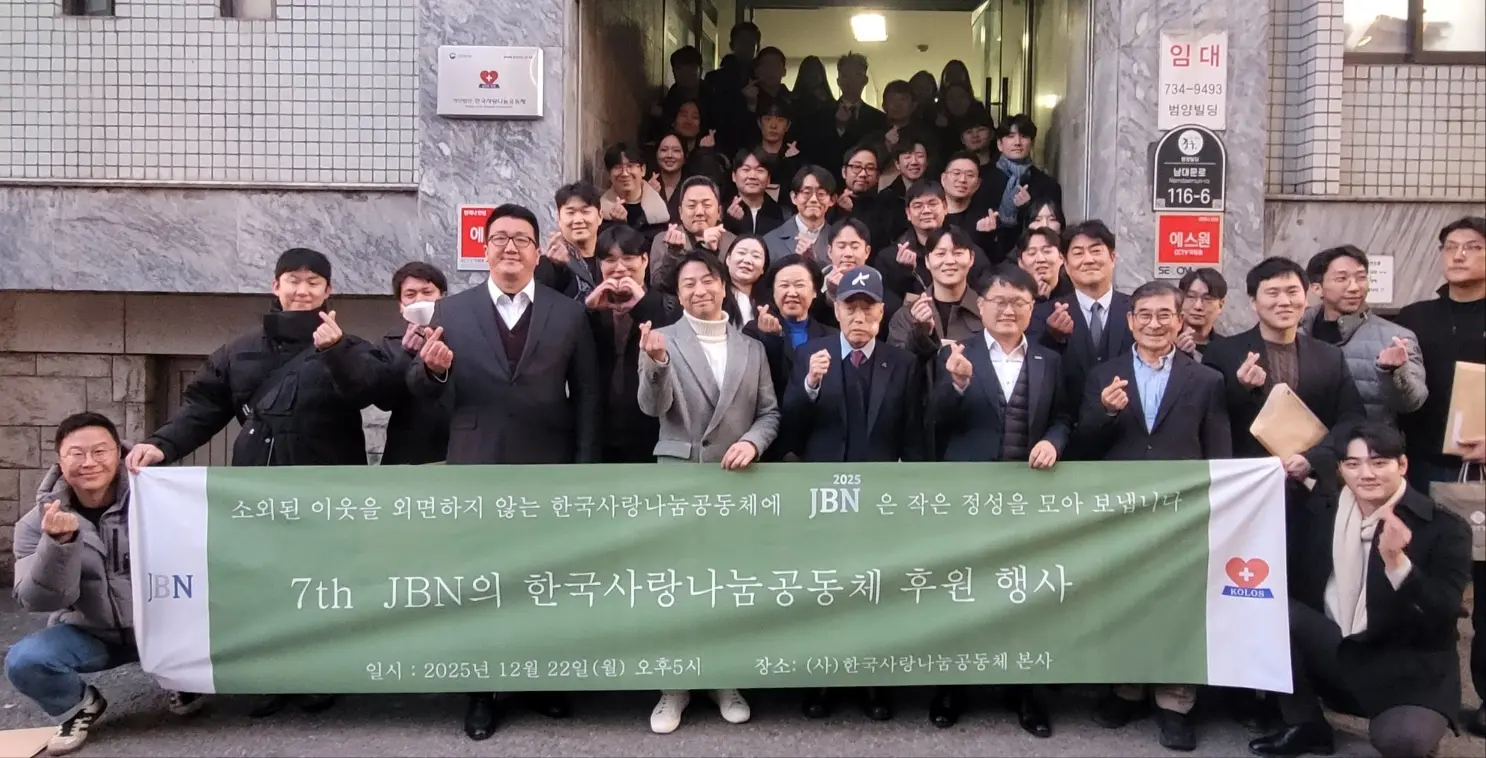
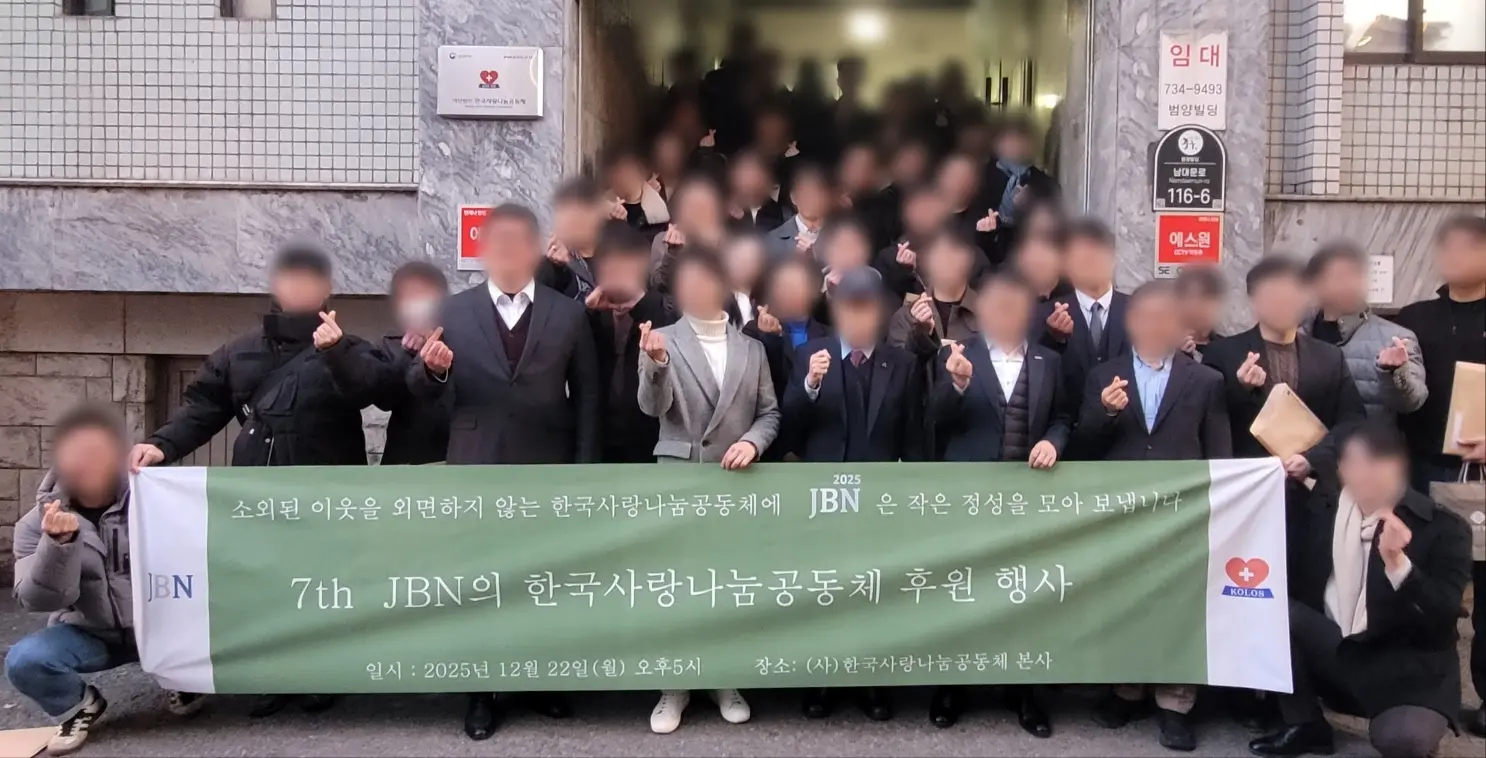
JBN 후원 행사 사진 참가자 얼굴 흐림 처리
Claude-Session: https://claude.ai/code/session_01TWFeAV8qrzbefrXQDbQNQx

diff --git a/index.html b/index.html
@@ -791,7 +791,7 @@
     <div class="wrap">
       <div class="drinks give">
         <figure class="drinks-photo give-photo">
-          <img src="assets/img/give-1-900.webp" srcset="assets/img/give-1-900.webp 900w, assets/img/give-1-1486.webp 1486w" sizes="(min-width: 900px) 52vw, 100vw" width="1486" height="758" loading="lazy" decoding="async" alt="제7회 JBN 한국사랑나눔공동체 후원 행사 현수막을 들고 손하트를 한 참가자들의 단체 사진">
+          <img src="assets/img/give-1-900.webp" srcset="assets/img/give-1-900.webp 900w, assets/img/give-1-1486.webp 1486w" sizes="(min-width: 900px) 52vw, 100vw" width="1486" height="758" loading="lazy" decoding="async" alt="제7회 JBN 한국사랑나눔공동체 후원 행사 현수막을 들고 손하트를 한 참가자들의 단체 사진(얼굴은 흐리게 처리)">
           <figcaption class="cap">제7회 JBN 한국사랑나눔공동체 후원 행사 · 2025.12.22</figcaption>
         </figure>
         <div>
